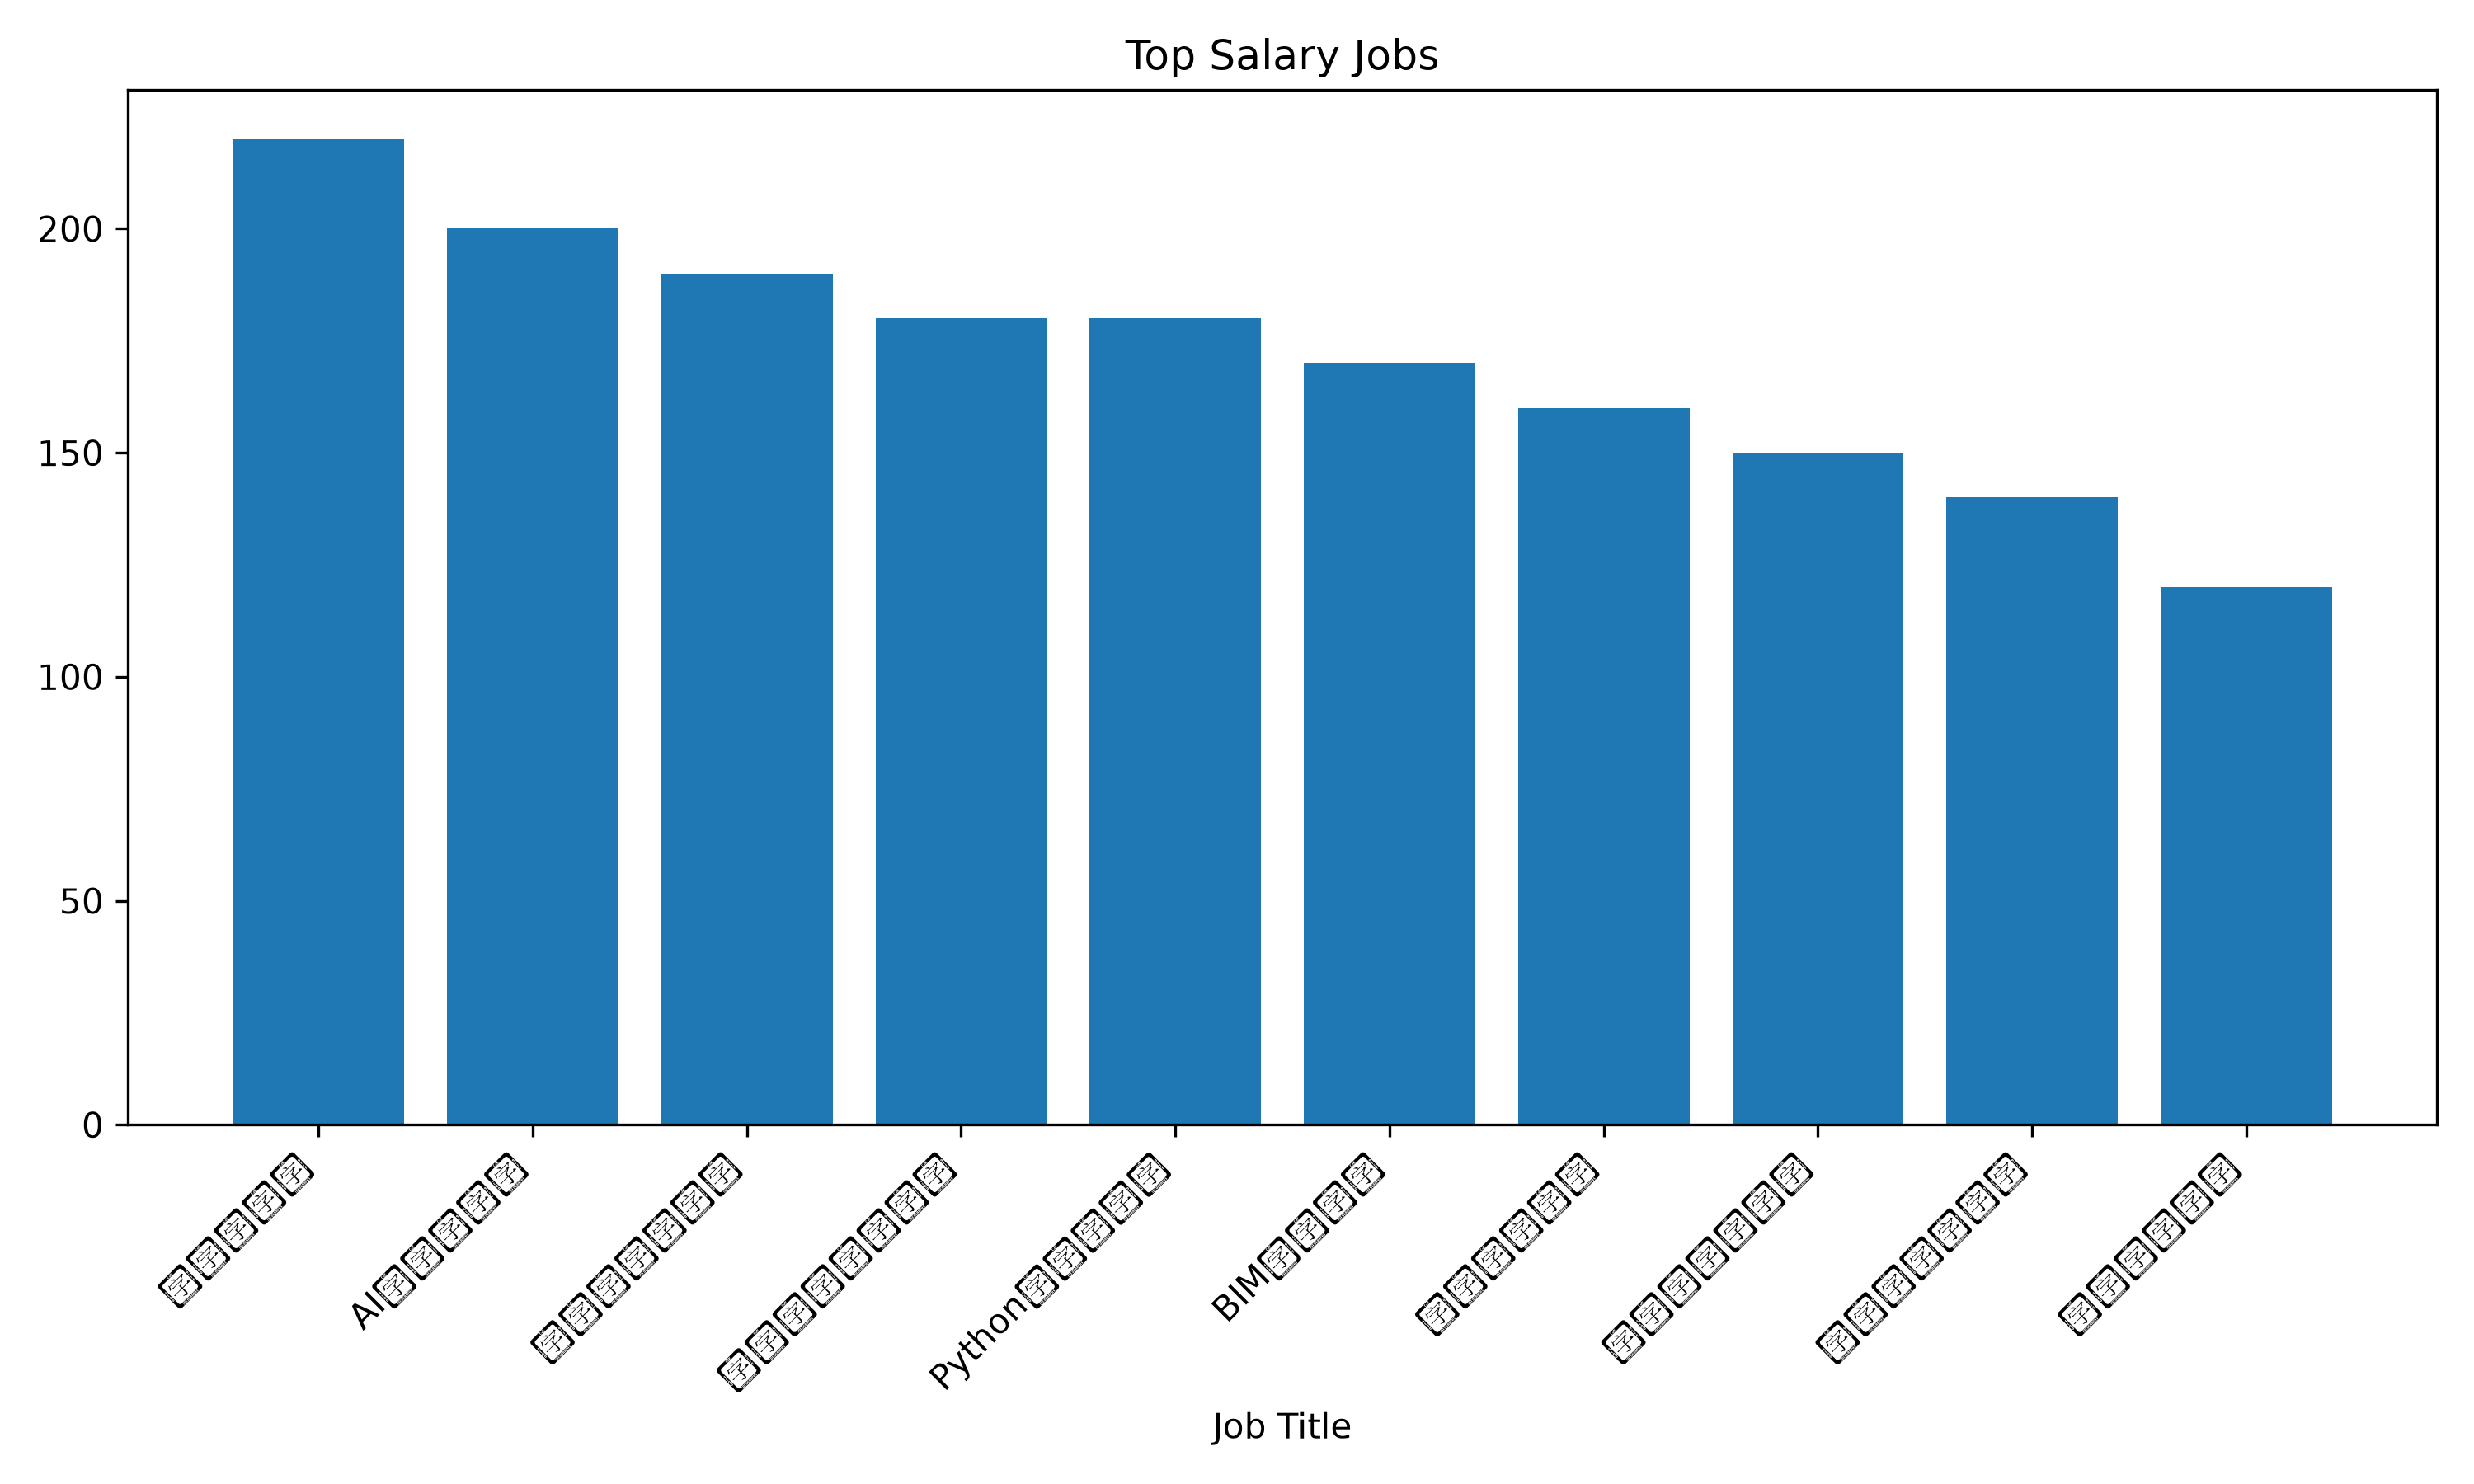
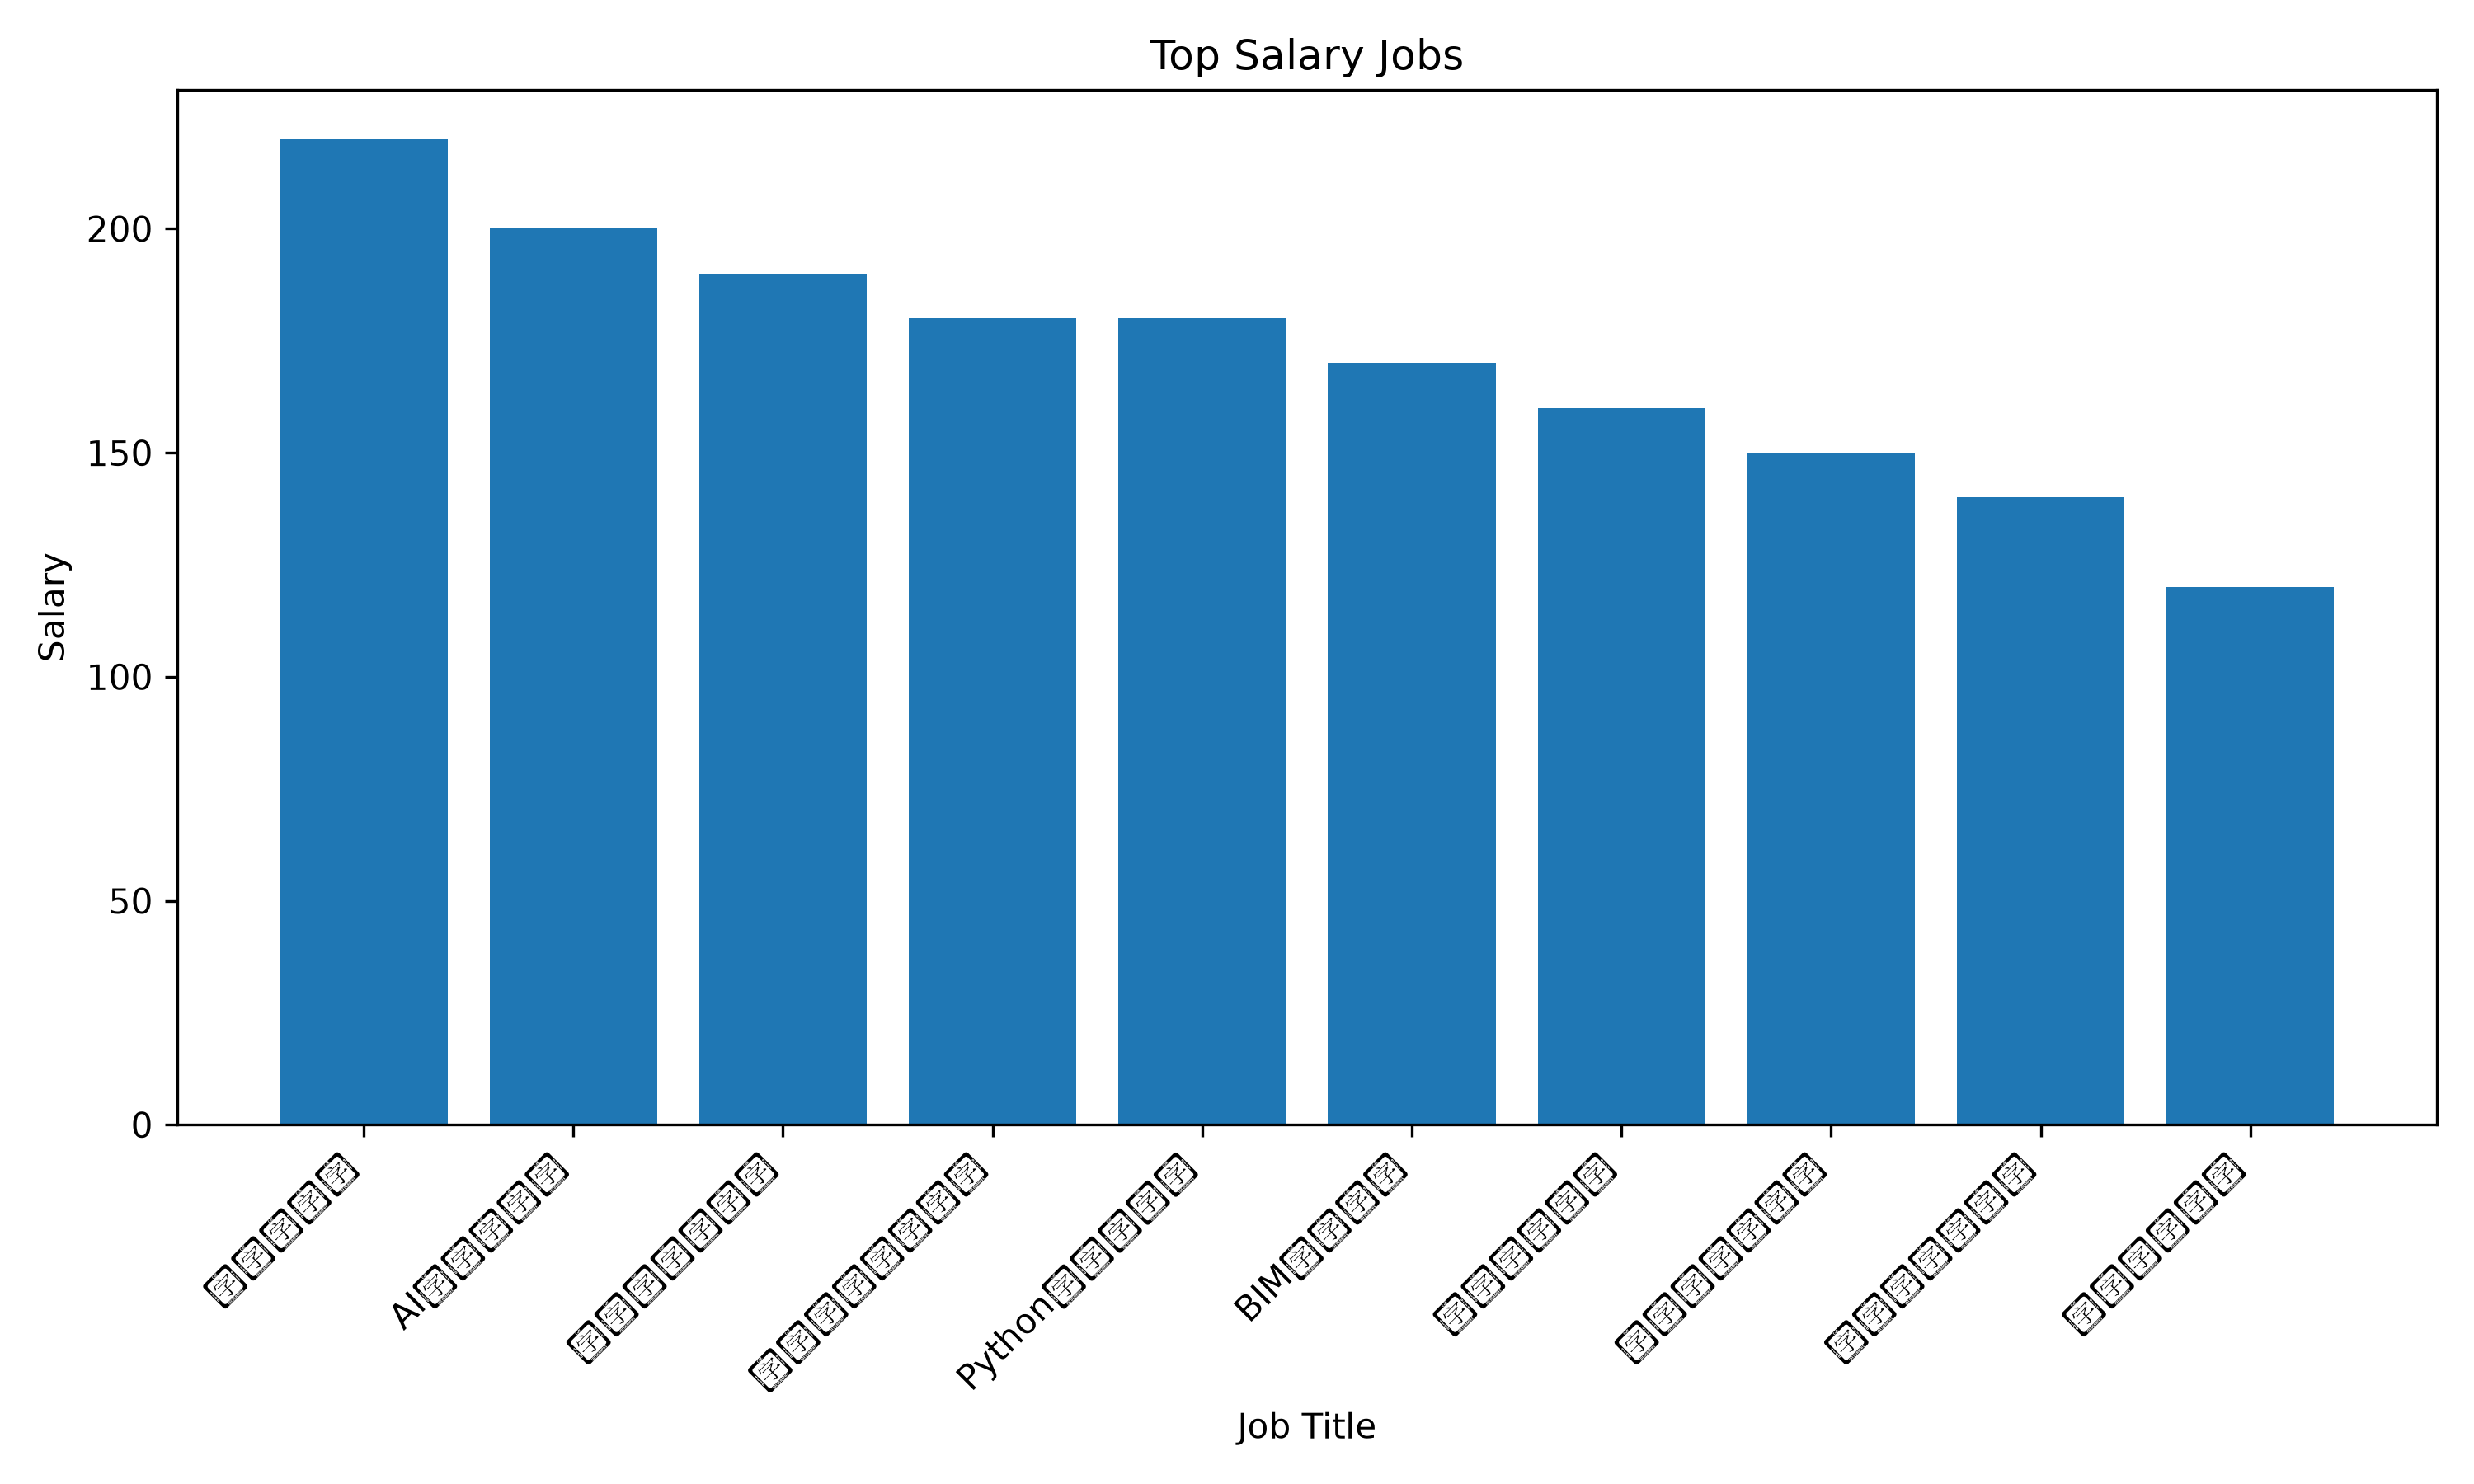
Refactor data loading and validation

diff --git a/scripts/analyze_jobs.py b/scripts/analyze_jobs.py
@@ -25,57 +25,65 @@ def parse_args():
     )
     return parser.parse_args()
 
-args = parse_args()
+def resolve_paths(args):
+    input_path = Path(args.input)
+    output_dir = Path(args.output)
 
-input_path = Path(args.input)
-output_dir = Path(args.output)
+    if not input_path.is_absolute():
+        input_path = BASE_DIR / input_path
+    if not output_dir.is_absolute():
+        output_dir = BASE_DIR /output_dir
 
-if not input_path.is_absolute():
-    input_path = BASE_DIR / input_path
-if not output_dir.is_absolute():
-    output_dir = BASE_DIR /output_dir
+    output_dir.mkdir(exist_ok=True,parents=True)
+    return input_path,output_dir
 
-output_dir.mkdir(exist_ok=True,parents=True)
+def load_data(input_path):
+    if not input_path.exists():
+        raise FileNotFoundError(
+            f"Input file not found : {input_path}\n"
+            f"please make sure job.csv exists in the data folder"
+        )
 
-if not input_path.exists():
-    raise FileExistsError(
-        f"Input file not found : {input_path}\n"
-        f"please make sure job.csv exists in the data folder"
-    )
-
-df = pd.read_csv(input_path)
+    return pd.read_csv(input_path)
 
 def save_bar_chart(data,x_col,y_col,title,xlabel,ylabel,output_path,top_n=None):
     plot_data = data.copy()
 
-    if top_n is None:
+    if top_n is not None:
         plot_data = plot_data.head(top_n)
 
     plt.figure(figsize=(10,6))
     plt.bar(plot_data[x_col], plot_data[y_col])
     plt.title(title)
     plt.xlabel(xlabel)
+    plt.ylabel(ylabel)
     plt.xticks(rotation=45, ha="right")
     plt.tight_layout()
     plt.savefig(output_path, dpi=300)
     plt.close()
 
+def validate_data(df):
+    required_columns = {"title","city","salary","skills"}
+    actual_columns = set(df.columns)
+    missing_columns = required_columns - actual_columns
+    if missing_columns:
+        raise ValueError(
+            f"Missing required columns: {missing_columns}\n"
+            f"Required columns are: {required_columns}"
+        )
 
-required_columns = {"title","city","salary","skills"}
-actual_columns = set(df.columns)
-missing_columns = required_columns - actual_columns
-if missing_columns:
-    raise ValueError(
-        f"Missing required columns: {missing_columns}\n"
-        f"Required columns are: {required_columns}"
-    )
+    df["salary"] = pd.to_numeric(df["salary"],errors="coerce")
+    if df["salary"].isna().any():
+        raise ValueError(
+            "The salary column contains invalid values. "
+            "Please make sure all salary values are numbers."
+        )
+    return df
 
-df["salary"] = pd.to_numeric(df["salary"],errors="coerce")
-if df["salary"].isna().any():
-    raise ValueError(
-         "The salary column contains invalid values. "
-        "Please make sure all salary values are numbers."
-    )
+args = parse_args()
+input_path, output_dir = resolve_paths(args)
+df = load_data(input_path)
+df = validate_data(df)
 
 print("Original data:")
 print(df)